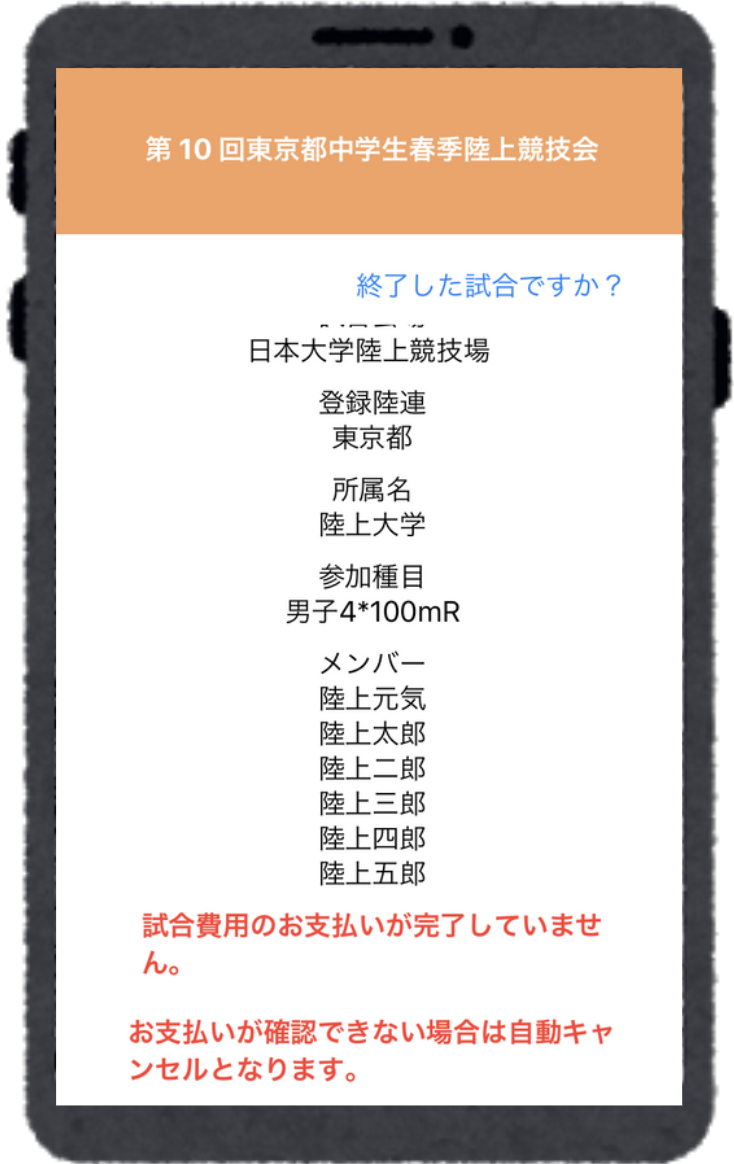
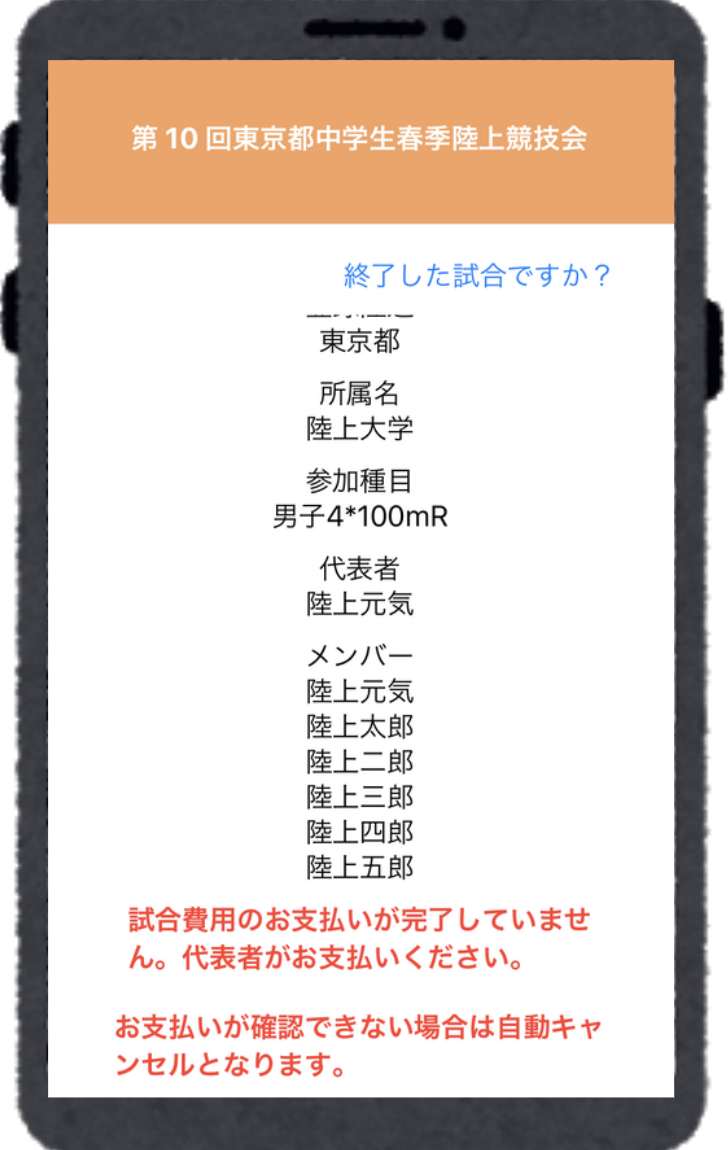
画面追加

Changed region(s): [[0.0, 0.0, 0.967, 1.0], [0.1813, 0.0913, 0.8159, 0.1522], [0.967, 0.0304, 1.0, 0.9739]]

diff --git a/public/relayfour.html b/public/relayfour.html
@@ -41,8 +41,10 @@
 
     <div class="landing">
       <div class= "landingText" data-aos="fade-up" data-aos-duration="1000">
-      <h1><span style="color: #ffd166;">RELAY</span></h1>
-        <h3>リレーの申し込みはもちろん、今まで本部に向かい提出していた「リレーオーダー表」をアップ場から、試合を観ながら、どんな場所からでもスマートフォンを利用して素早く簡単に提出することが出来ます。</h3>
+      <h1><span style="color: #ffd166;">リレーの申し込みリスト</span></h1>
+        <h3>申し込んだ試合の情報を見る事ができます。
+          「進行中の試合」「終了した試合」の２つに 試合を分ける事ができ、
+          試合費用のお支払いが確認されエントリーが承認されたか確認する事ができます</h3>
     </div>
     <div class="landingImage" data-aos="fade-up" data-aos-duration="1000">
       <img src="/img/relayfour1.png" alt="" height="650px" width="500px">
@@ -56,16 +58,22 @@
         <img src="/img/relayfour2.png" alt="">
       </div>
     <div class= "aboutText" data-aos="fade-up" data-aos-duration="1000">
-    <h1><span style="color: #ffd166;">リレーだけを表示</span></h1>
-     <h3>全てリレー種目が行われる試合を表示しています。選択を間違えるの問題はありません。</h3>
+    <h1><span style="color: #ffd166;">申込みリストの表示</span></h1>
+     <h3>リレー申し込みリストを表示させてみましょう。
+       申し込み時に入力した「メールアドレス」と「ユーザーパス」を 入力しましょう。
+       現在進行中の試合が表示されました。 内容を確認してみましょう。画面右の矢印を押してみましょう。
+    </h3>
     </div>
   </div>
 
     <!--3-->
     <div class="landing">
       <div class= "landingText" data-aos="fade-up" data-aos-duration="1000">
-      <h1><span style="color: #ffd166;">チームの申込みリスト</span></h1>
-      <h3>申し込んだリレーの情報をいつでも見ることが出来ます。他のチームの情報は表示されません。</h3>
+      <h1><span style="color: #ffd166;">お支払い前</span></h1>
+      <h3>試合の申し込み内容が表示されました。画面下の赤い文字に注目してみましょう。 
+        試合費用のお支払いが確認できていない場合に表示される文章です。
+        試合費用は代表者がお支払いください。 
+        お支払いが確認できない場合、試合の申し込みは自動キャンセルとなります。ご注意下さい。</h3>
     </div>
     <div class="landingImage" data-aos="fade-up" data-aos-duration="1000">
       <img src="/img/relayfour3.png" alt="" height="650px" width="500px">
@@ -78,17 +86,21 @@
         <img src="/img/relayfour4.png" alt="">
       </div>
     <div class= "aboutText" data-aos="fade-up" data-aos-duration="1000">
-    <h1><span style="color: #ffd166;">アップ場から</span></h1>
-     <h3>どんな場所からでもリレーオーダー表の提出が可能です。
-       「組」「レーン」「走者名」を入力するだけで簡単に提出できます。</h3>
+    <h1><span style="color: #ffd166;">お支払い後 </span></h1>
+     <h3>試合費用のお支払いが確認できた場合は「試合費用の確認ができました」と表示されます。
+        この文章が表示されて初めてエントリーが完了となります。
+       </h3>
     </div>
   </div>
 
    <!--5-->
    <div class="landing">
     <div class= "landingText" data-aos="fade-up" data-aos-duration="1000">
-    <h1><span style="color: #ffd166;">チームの申込みリスト</span></h1>
-    <h3>申し込んだリレーの情報をいつでも見ることが出来ます。他のチームの情報は表示されません。</h3>
+    <h1><span style="color: #ffd166;">試合を終了させる</span></h1>
+    <h3>終了した試合を「終了した試合一覧」に移動させてみましょう。
+      終了した試合が申し込みリストに表示されたままでは 分かりにくくなってしまいます。
+      画面右上の青い文字「終了した試合ですか？」を押してみましょう。 
+      メッセージが表示されます。終了ボタンを押すと試合が「終了した試合一覧」に移動します。</h3>
   </div>
   <div class="landingImage" data-aos="fade-up" data-aos-duration="1000">
     <img src="/img/relayfour5.png" alt="" height="650px" width="500px">
@@ -101,17 +113,19 @@
       <img src="/img/relayfour6.png" alt="">
     </div>
   <div class= "aboutText" data-aos="fade-up" data-aos-duration="1000">
-  <h1><span style="color: #ffd166;">アップ場から</span></h1>
-   <h3>どんな場所からでもリレーオーダー表の提出が可能です。
-     「組」「レーン」「走者名」を入力するだけで簡単に提出できます。</h3>
+  <h1><span style="color: #ffd166;">終了した試合リスト</span></h1>
+   <h3>試合申し込みリスト画面右上の「終了した試合一覧」を押しましょう。画面が表示されました。 
+     メールアドレスとユーザーパスを入力しましょう。試合一覧が表示されました。
+     </h3>
   </div>
 </div>
 
    <!--7-->
    <div class="landing">
     <div class= "landingText" data-aos="fade-up" data-aos-duration="1000">
-    <h1><span style="color: #ffd166;">チームの申込みリスト</span></h1>
-    <h3>申し込んだリレーの情報をいつでも見ることが出来ます。他のチームの情報は表示されません。</h3>
+    <h1><span style="color: #ffd166;">試合要項も一緒に</span></h1>
+    <h3>終了した試合の申し込み内容はもちろん、試合要項も確認できます。
+    </h3>
   </div>
   <div class="landingImage" data-aos="fade-up" data-aos-duration="1000">
     <img src="/img/relayfour7.png" alt="" height="650px" width="500px">

diff --git a/public/relaytwo.html b/public/relaytwo.html
@@ -107,7 +107,7 @@
         </div>
       <div class= "aboutText" data-aos="fade-up" data-aos-duration="1000">
       <h1><span style="color: #ffd166;">代表者</span></h1>
-       <h3>「代表者」とはリレー当日にオーダー表を提出する人です。代表者はリレーの団体
+       <h3>「代表者」とは「リレー当日にオーダー表を提出」「試合費用は代表者がお支払い」する人です。代表者はリレーの団体
             に所属している人であれば誰でもなる事ができます。代表者は重要な立場になりますので
             グループ内で話し合って決めて下さい。
        </h3>
@@ -136,7 +136,7 @@
     <div class= "aboutText" data-aos="fade-up" data-aos-duration="1000">
     <h1><span style="color: #ffd166;">申込み完了！</span></h1>
      <h3>リレーの申し込みが完了しました。試合内容は「リレーの申し込みリスト」にて確認できます。 
-       試合費用をお支払いしてエントリーが完了となりますのでご注意下さい。
+       試合費用は代表者がお支払いください。代表者が試合費用をお支払いしてエントリーが完了となりますのでご注意下さい。
        </h3>
     </div>
   </div>

diff --git a/public/gamethree.html b/public/gamethree.html
@@ -42,7 +42,7 @@
     <div class="landing">
       <div class= "landingText" data-aos="fade-up" data-aos-duration="1000">
       <h1><span style="color: #2f8be0;">試合申込みリスト</span></h1>
-        <h3>申し込んだ試合の情報をみる事ができます。「進行中の試合」「終了した試合」の２つに
+        <h3>申し込んだ試合の情報を見る事ができます。「進行中の試合」「終了した試合」の２つに
           試合を分ける事ができ、試合費用のお支払いが確認されエントリーが承認されたか確認する事ができます。
         </h3>
     </div>
